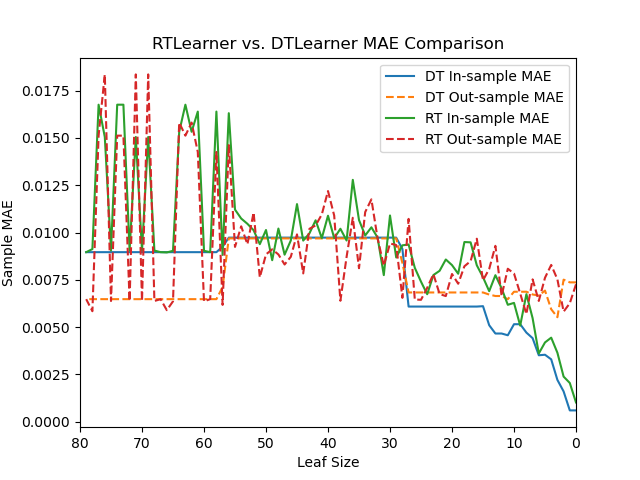
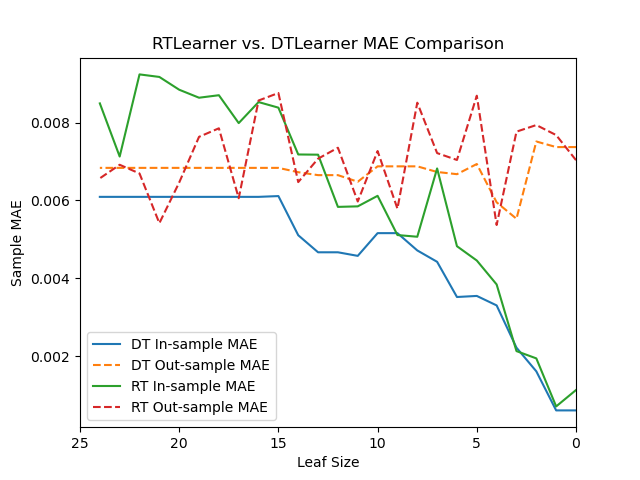
p3 official submission

diff --git a/ML4T/assess_learners/testlearner.py b/ML4T/assess_learners/testlearner.py
@@ -30,7 +30,7 @@ import math
   		  	   		 	   		  		  		    	 		 		   		 		  
 import numpy as np  		  	   		 	   		  		  		    	 		 		   		 		  
   		  	   		 	   		  		  		    	 		 		   		 		  
-import LinRegLearner as lrl  		  	   		 	   		  		  		    	 		 		   		 		  
+import LinRegLearner as lrl
 import DTLearner as dtl
 import RTLearner as rtl
 import BagLearner as bl
@@ -243,8 +243,8 @@ if __name__ == "__main__":
     '''
 
     # np metod
-    leaf_sizes = np.empty((1, 80))
-    maes = np.empty((4, 80), dtype=float)
+    leaf_sizes = np.empty((1, 50))
+    maes = np.empty((4, 50), dtype=float)
     '''
     row 1 - DT - in sample mae
     row 2 -  DT out sample
@@ -253,10 +253,10 @@ if __name__ == "__main__":
     '''
 
 
-    learners = np.empty((2, 80), dtype=object)  # row 1 = DT, row 2 = RT
+    learners = np.empty((2, 50), dtype=object)  # row 1 = DT, row 2 = RT
 
     # model inits
-    for i in range(80):
+    for i in range(25):
         # leaf sie
 
         leaf_sizes[0, i] = i
@@ -275,7 +275,7 @@ if __name__ == "__main__":
 
     #predictions
 
-    for i in range(80):
+    for i in range(50):
         #Dt insample
         y_pred = learners[0, i].query(train_x)
         mae = (np.sum(np.absolute((train_y-y_pred)))) / train_y.shape[0] #true values - pred values
@@ -305,7 +305,7 @@ if __name__ == "__main__":
     plt.plot(leaf_sizes[0, :], maes[2, :], label='RT In-sample MAE')
     plt.plot(leaf_sizes[0, :], maes[3, :], label='RT Out-sample MAE', linestyle = '--')
     plt.title('RTLearner vs. DTLearner MAE Comparison')
-    plt.xlim(80, 0)
+    plt.xlim(50, 0)
     plt.ylabel('Sample MAE')
     plt.xlabel('Leaf Size')
     plt.legend()
